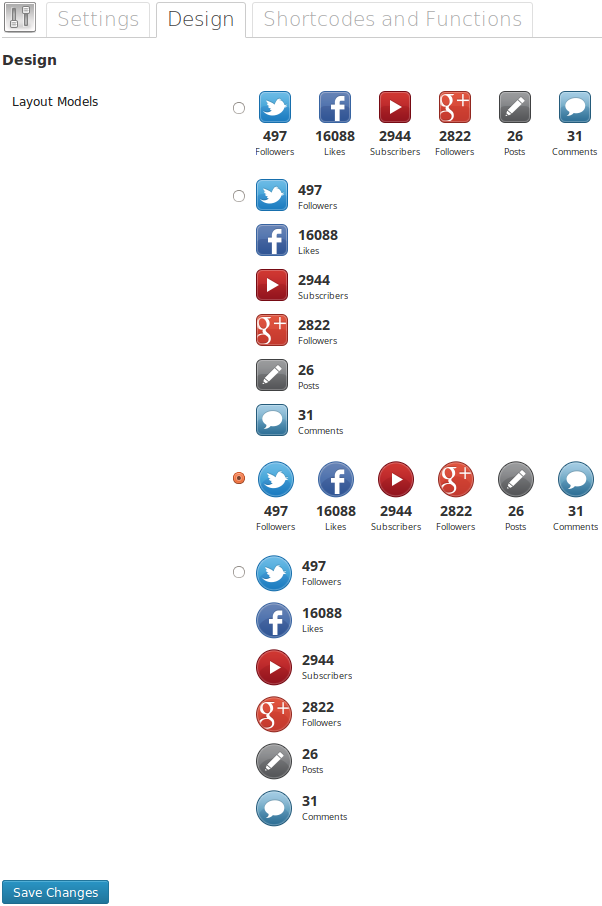
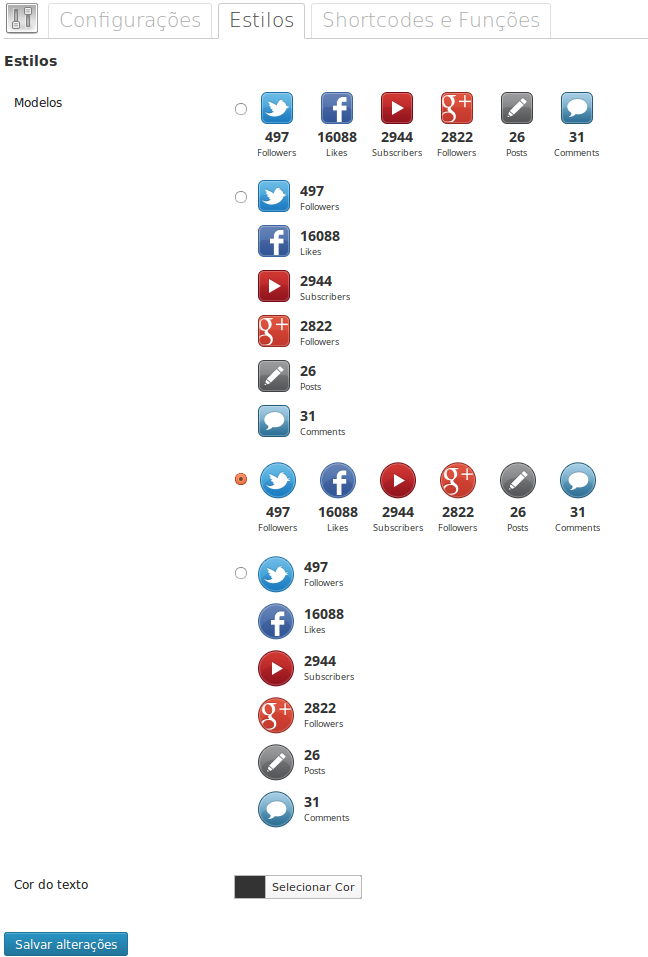
updated the plugin version to 2.5.0
git-svn-id: https://plugins.svn.wordpress.org/social-count-plus/trunk@729560 b8457f37-d9ea-0310-8a92-e5e31aec5664

diff --git a/assets/css/counter.css b/assets/css/counter.css
@@ -1,1 +1,1 @@
-.social-count-plus .clear{clear:both}.social-count-plus ul{list-style:none !important;margin:0;padding:0}.social-count-plus li{background:none;clear:none !important;float:left;margin:0;padding:0 0 20px;text-align:center;width:60px}.social-count-plus .vertical li{*zoom:1;display:block;float:none;padding-bottom:10px;width:100%}.social-count-plus .vertical li:after{content:"";display:table;clear:both}.social-count-plus span{display:block;padding:0;margin:0}.social-count-plus a{-webkit-transition:all 0.4s ease;-moz-transition:all 0.4s ease;-o-transition:all 0.4s ease;transition:all 0.4s ease;display:block;margin:0 auto;opacity:1}.social-count-plus a:hover{opacity:0.7}.social-count-plus .default a{background-color:transparent !important;background-image:url("../images/sprite-default.png") !important;background-repeat:no-repeat !important;height:32px !important;width:32px !important}.social-count-plus .circle a{background-image:url("../images/sprite-circle.png") !important;height:37px !important;width:36px !important}.social-count-plus .vertical a{float:left}.social-count-plus .vertical .items{float:left;margin-left:10px;text-align:left}.social-count-plus .count{color:#333;display:block;font-size:14px;font-weight:bold;line-height:16px;margin:5px 0 0;padding:0}.social-count-plus .vertical .count{margin-top:3px}.social-count-plus .label{color:#333;line-height:16px;font-size:9px;font-weight:normal;text-transform:capitalize}.social-count-plus .default .count-twitter a{background-position:0 0 !important}.social-count-plus .circle .count-twitter a{background-position:0 0 !important}.social-count-plus .default .count-facebook a{background-position:-32px 0 !important}.social-count-plus .circle .count-facebook a{background-position:-36px 0 !important}.social-count-plus .default .count-youtube a{background-position:-64px 0 !important}.social-count-plus .circle .count-youtube a{background-position:-72px 0 !important}.social-count-plus .default .count-googleplus a{background-position:-96px 0 !important}.social-count-plus .circle .count-googleplus a{background-position:-108px 0 !important}.social-count-plus .default .count-posts a{background-position:-128px 0 !important}.social-count-plus .circle .count-posts a{background-position:-144px 0 !important}.social-count-plus .default .count-comments a{background-position:-160px 0 !important}.social-count-plus .circle .count-comments a{background-position:-180px 0 !important}
+.social-count-plus .clear{clear:both}.social-count-plus ul{list-style:none !important;margin:0;padding:0}.social-count-plus li{background:none;clear:none !important;float:left;margin:0;padding:0 0 20px;text-align:center;width:60px}.social-count-plus .vertical li{*zoom:1;display:block;float:none;padding-bottom:10px;width:100%}.social-count-plus .vertical li:after{content:"";display:table;clear:both}.social-count-plus span{display:block;padding:0;margin:0}.social-count-plus a{-webkit-transition:all 0.4s ease;-moz-transition:all 0.4s ease;-o-transition:all 0.4s ease;transition:all 0.4s ease;display:block;margin:0 auto;opacity:1}.social-count-plus a:hover{opacity:0.7}.social-count-plus .default a{background-color:transparent !important;background-image:url("../images/sprite-default.png") !important;background-repeat:no-repeat !important;height:32px !important;width:32px !important}.social-count-plus .circle a{background-image:url("../images/sprite-circle.png") !important;height:37px !important;width:36px !important}.social-count-plus .vertical a{float:left}.social-count-plus .vertical .items{float:left;margin-left:10px;text-align:left}.social-count-plus .count{display:block;font-size:14px;font-weight:bold;line-height:16px;margin:5px 0 0;padding:0}.social-count-plus .vertical .count{margin-top:3px}.social-count-plus .label{line-height:16px;font-size:9px;font-weight:normal;text-transform:capitalize}.social-count-plus .default .count-twitter a{background-position:0 0 !important}.social-count-plus .circle .count-twitter a{background-position:0 0 !important}.social-count-plus .default .count-facebook a{background-position:-32px 0 !important}.social-count-plus .circle .count-facebook a{background-position:-36px 0 !important}.social-count-plus .default .count-youtube a{background-position:-64px 0 !important}.social-count-plus .circle .count-youtube a{background-position:-72px 0 !important}.social-count-plus .default .count-googleplus a{background-position:-96px 0 !important}.social-count-plus .circle .count-googleplus a{background-position:-108px 0 !important}.social-count-plus .default .count-posts a{background-position:-128px 0 !important}.social-count-plus .circle .count-posts a{background-position:-144px 0 !important}.social-count-plus .default .count-comments a{background-position:-160px 0 !important}.social-count-plus .circle .count-comments a{background-position:-180px 0 !important}

diff --git a/assets/js/admin.js b/assets/js/admin.js
@@ -1,0 +1,4 @@
+jQuery(document).ready(function($) {
+    // Init the color picker.
+    $(".social-count-plus-color-field").wpColorPicker();
+});

diff --git a/assets/js/admin.min.js b/assets/js/admin.min.js
@@ -1,0 +1,1 @@
+jQuery(document).ready(function(o){o(".social-count-plus-color-field").wpColorPicker()});

diff --git a/social-count-plus.php b/social-count-plus.php
@@ -5,7 +5,7 @@
  * Description: Display the counting Twitter followers, Facebook fans, YouTube subscribers posts and comments.
  * Author: claudiosanches
  * Author URI: http://claudiosmweb.com/
- * Version: 2.4.0
+ * Version: 2.5.0
  * License: GPLv2 or later
  * Text Domain: socialcountplus
  * Domain Path: /languages/
@@ -31,6 +31,7 @@ class Social_Count_Plus {
         // Load textdomain.
         add_action( 'plugins_loaded', array( &$this, 'languages' ), 0 );
 
+
         // Adds admin menu.
         add_action( 'admin_menu', array( &$this, 'menu' ) );
 
@@ -42,12 +43,16 @@ class Social_Count_Plus {
 
         // Scripts.
         add_action( 'wp_enqueue_scripts', array( &$this, 'scripts' ) );
+        add_action( 'admin_enqueue_scripts', array( &$this, 'admin_scripts' ) );
 
         // Adds shortcode.
         add_shortcode( 'scp', array( &$this, 'shortcode' ) );
 
         // Install default settings.
         register_activation_hook( __FILE__, array( &$this, 'install' ) );
+
+        // Actions links.
+        add_filter( 'plugin_action_links_' . plugin_basename( __FILE__ ), array( &$this, 'action_links' ) );
     }
 
     /**
@@ -58,11 +63,42 @@ class Social_Count_Plus {
     }
 
     /**
+     * Adds custom settings url in plugins page.
+     *
+     * @param  array $links Default links.
+     *
+     * @return array        Default links and settings link.
+     */
+    public function action_links( $links ) {
+
+        $settings = array(
+            'settings' => sprintf(
+                '<a href="%s">%s</a>',
+                admin_url( 'options-general.php?page=socialcountplus' ),
+                __( 'Settings', 'socialcountplus' )
+            )
+        );
+
+        return array_merge( $settings, $links );
+    }
+
+    /**
      * Register scripts.
      */
     public function scripts() {
         wp_register_style( 'socialcountplus-style', plugins_url( 'assets/css/counter.css', __FILE__ ), array(), '2.0', 'all' );
         wp_enqueue_style( 'socialcountplus-style' );
+    }
+
+    /**
+     * Register admin scripts.
+     */
+    public function admin_scripts() {
+        wp_enqueue_script( 'wp-color-picker' );
+        wp_enqueue_style( 'wp-color-picker' );
+
+        wp_register_script( 'socialcountplus-admin', plugins_url( 'assets/js/admin.js', __FILE__ ), array( 'jquery', 'wp-color-picker' ), null, true );
+        wp_enqueue_script( 'socialcountplus-admin' );
     }
 
     /**
@@ -228,6 +264,13 @@ class Social_Count_Plus {
                 ),
                 'section' => 'design',
                 'menu' => 'socialcountplus_design'
+            ),
+            'text_color' => array(
+                'title' => __( 'Text Color', 'socialcountplus' ),
+                'default' => '#333333',
+                'type' => 'color',
+                'section' => 'design',
+                'menu' => 'socialcountplus_design'
             )
         );
 
@@ -345,17 +388,15 @@ class Social_Count_Plus {
 
         // Create tabs current class.
         $current_tab = '';
-        if ( isset( $_GET['tab'] ) ) {
+        if ( isset( $_GET['tab'] ) )
             $current_tab = $_GET['tab'];
-        } else {
+        else
             $current_tab = 'settings';
-        }
 
         // Reset transients when save settings page.
         if ( isset( $_GET['settings-updated'] ) ) {
-            if ( true == $_GET['settings-updated'] ) {
+            if ( true == $_GET['settings-updated'] )
                 $this->counter->reset_transients();
-            }
         }
 
         ?>
@@ -392,14 +433,12 @@ class Social_Count_Plus {
                     if ( 'design' == $current_tab ) {
                         settings_fields( 'socialcountplus_design' );
                         do_settings_sections( 'socialcountplus_design' );
+                        submit_button();
                     } else if ( 'shortcodes' == $current_tab ) {
                         $this->page_shortcodes();
                     } else {
                         settings_fields( 'socialcountplus_settings' );
                         do_settings_sections( 'socialcountplus_settings' );
-                    }
-
-                    if ( 'shortcodes' != $current_tab ) {
                         submit_button();
                     }
                 ?>
@@ -485,9 +524,8 @@ class Social_Count_Plus {
         $settings = 'socialcountplus_settings';
 
         // Create option in wp_options.
-        if ( false == get_option( $settings ) ) {
+        if ( false == get_option( $settings ) )
             $this->update();
-        }
 
         foreach ( $this->default_settings() as $key => $value ) {
 
@@ -544,6 +582,20 @@ class Social_Count_Plus {
                         )
                     );
                     break;
+                case 'color':
+                    add_settings_field(
+                        $key,
+                        $value['title'],
+                        array( &$this , 'color_element_callback' ),
+                        $value['menu'],
+                        $value['section'],
+                        array(
+                            'menu' => $value['menu'],
+                            'id' => $key,
+                            'description' => isset( $value['description'] ) ? $value['description'] : ''
+                        )
+                    );
+                    break;
 
                 default:
                     break;
@@ -570,18 +622,16 @@ class Social_Count_Plus {
 
         $options = get_option( $menu );
 
-        if ( isset( $options[$id] ) ) {
+        if ( isset( $options[$id] ) )
             $current = $options[$id];
-        } else {
+        else
             $current = isset( $args['default'] ) ? $args['default'] : '';
-        }
 
         $html = sprintf( '<input type="text" id="%1$s" name="%2$s[%1$s]" value="%3$s" class="%4$s" />', $id, $menu, $current, $class );
 
         // Displays option description.
-        if ( isset( $args['description'] ) ) {
+        if ( isset( $args['description'] ) )
             $html .= sprintf( '<p class="description">%s</p>', $args['description'] );
-        }
 
         echo $html;
     }
@@ -599,20 +649,18 @@ class Social_Count_Plus {
 
         $options = get_option( $menu );
 
-        if ( isset( $options[$id] ) ) {
+        if ( isset( $options[$id] ) )
             $current = $options[$id];
-        } else {
+        else
             $current = isset( $args['default'] ) ? $args['default'] : '';
-        }
 
         $html = sprintf( '<input type="checkbox" id="%1$s" name="%2$s[%1$s]" value="1"%3$s />', $id, $menu, checked( 1, $current, false ) );
 
         $html .= sprintf( '<label for="%s"> %s</label><br />', $id, __( 'Activate/Deactivate', 'socialcountplus' ) );
 
         // Displays option description.
-        if ( isset( $args['description'] ) ) {
+        if ( isset( $args['description'] ) )
             $html .= sprintf( '<p class="description">%s</p>', $args['description'] );
-        }
 
         echo $html;
     }
@@ -630,11 +678,10 @@ class Social_Count_Plus {
 
         $options = get_option( $menu );
 
-        if ( isset( $options[$id] ) ) {
+        if ( isset( $options[$id] ) )
             $current = $options[$id];
-        } else {
+        else
             $current = isset( $args['default'] ) ? $args['default'] : '#ffffff';
-        }
 
         $html = '';
         $key = 0;
@@ -646,9 +693,35 @@ class Social_Count_Plus {
         }
 
         // Displays option description.
-        if ( isset( $args['description'] ) ) {
+        if ( isset( $args['description'] ) )
             $html .= sprintf( '<p class="description">%s</p>', $args['description'] );
-        }
+
+        echo $html;
+    }
+
+    /**
+     * Color element fallback.
+     *
+     * @param  array $args Field arguments.
+     *
+     * @return string      Color field.
+     */
+    public function color_element_callback( $args ) {
+        $menu = $args['menu'];
+        $id = $args['id'];
+
+        $options = get_option( $menu );
+
+        if ( isset( $options[$id] ) )
+            $current = $options[$id];
+        else
+            $current = isset( $args['default'] ) ? $args['default'] : '#333333';
+
+        $html = sprintf( '<input type="text" id="%1$s" name="%2$s[%1$s]" value="%3$s" class="social-count-plus-color-field" />', $id, $menu, $current );
+
+        // Displays option description.
+        if ( isset( $args['description'] ) )
+            $html .= sprintf( '<p class="description">%s</p>', $args['description'] );
 
         echo $html;
     }
@@ -668,10 +741,10 @@ class Social_Count_Plus {
         foreach ( $input as $key => $value ) {
 
             // Check to see if the current option has a value. If so, process it.
-            if ( isset( $input[$key] ) ) {
+            if ( isset( $input[ $key ] ) ) {
 
                 // Strip all HTML and PHP tags and properly handle quoted strings.
-                $output[$key] = sanitize_text_field( $input[$key] );
+                $output[ $key ] = sanitize_text_field( $input[ $key ] );
             }
         }
 
@@ -689,12 +762,12 @@ class Social_Count_Plus {
      *
      * @return string         HTML li element.
      */
-    public function get_view_li( $slug, $url, $count, $title ) {
+    public function get_view_li( $slug, $url, $count, $title, $color ) {
         $html = sprintf( '<li class="count-%s">', $slug );
             $html .= sprintf( '<a class="icon" href="%s" target="_blank"></a>', esc_url( $url ) );
             $html .= '<span class="items">';
-                $html .= sprintf( '<span class="count">%s</span>', apply_filters( 'social_count_plus_number_format', $count ) );
-                $html .= sprintf( '<span class="label">%s</span>', $title );
+                $html .= sprintf( '<span class="count" style="color: %s !important;">%s</span>', $color, apply_filters( 'social_count_plus_number_format', $count ) );
+                $html .= sprintf( '<span class="label" style="color: %s !important;">%s</span>', $color, $title );
             $html .= '</span>';
         $html .= '</li>';
 
@@ -710,6 +783,7 @@ class Social_Count_Plus {
         $settings = get_option( 'socialcountplus_settings' );
         $design = get_option( 'socialcountplus_design' );
         $count = $this->counter->update_transients();
+        $color = isset( $design['text_color'] ) ? $design['text_color'] : '#333333';
 
         // Sets widget design.
         $style = '';
@@ -733,22 +807,22 @@ class Social_Count_Plus {
             $html .= '<ul class="' . $style . '">';
 
                 // Twitter counter.
-                $html .= ( isset( $settings['twitter_active'] ) ) ? $this->get_view_li( 'twitter', 'http://twitter.com/' . $settings['twitter_user'], $count['twitter'], __( 'followers', 'socialcountplus' ) ) : '';
+                $html .= ( isset( $settings['twitter_active'] ) ) ? $this->get_view_li( 'twitter', 'http://twitter.com/' . $settings['twitter_user'], $count['twitter'], __( 'followers', 'socialcountplus' ), $color ) : '';
 
                 // Facebook counter.
-                $html .= ( isset( $settings['facebook_active'] ) ) ? $this->get_view_li( 'facebook', 'http://www.facebook.com/' . $settings['facebook_id'], $count['facebook'], __( 'likes', 'socialcountplus' ) ) : '';
+                $html .= ( isset( $settings['facebook_active'] ) ) ? $this->get_view_li( 'facebook', 'http://www.facebook.com/' . $settings['facebook_id'], $count['facebook'], __( 'likes', 'socialcountplus' ), $color ) : '';
 
                 // YouTube counter.
-                $html .= ( isset( $settings['youtube_active'] ) ) ? $this->get_view_li( 'youtube', 'www.youtube.com/user/' . $settings['youtube_user'], $count['youtube'], __( 'subscribers', 'socialcountplus' ) ) : '';
+                $html .= ( isset( $settings['youtube_active'] ) ) ? $this->get_view_li( 'youtube', 'www.youtube.com/user/' . $settings['youtube_user'], $count['youtube'], __( 'subscribers', 'socialcountplus' ), $color ) : '';
 
                 // Google Plus counter.
-                $html .= ( isset( $settings['googleplus_active'] ) ) ? $this->get_view_li( 'googleplus', 'https://plus.google.com/' . $settings['googleplus_id'], $count['googleplus'], __( 'followers', 'socialcountplus' ) ) : '';
+                $html .= ( isset( $settings['googleplus_active'] ) ) ? $this->get_view_li( 'googleplus', 'https://plus.google.com/' . $settings['googleplus_id'], $count['googleplus'], __( 'followers', 'socialcountplus' ), $color ) : '';
 
                 // Posts counter.
-                $html .= ( isset( $settings['posts_active'] ) ) ? $this->get_view_li( 'posts', get_home_url(), $count['posts'], __( 'posts', 'socialcountplus' ) ) : '';
+                $html .= ( isset( $settings['posts_active'] ) ) ? $this->get_view_li( 'posts', get_home_url(), $count['posts'], __( 'posts', 'socialcountplus' ), $color ) : '';
 
                 // Comments counter.
-                $html .= ( isset( $settings['comments_active'] ) ) ? $this->get_view_li( 'comments', get_home_url(), $count['comments'], __( 'comments', 'socialcountplus' ) ) : '';
+                $html .= ( isset( $settings['comments_active'] ) ) ? $this->get_view_li( 'comments', get_home_url(), $count['comments'], __( 'comments', 'socialcountplus' ), $color ) : '';
 
             $html .= '</ul>';
             $html .= '<div class="clear"></div>';

diff --git a/classes/class-twitter-oauth-authorization.php b/classes/class-twitter-oauth-authorization.php
@@ -51,9 +51,8 @@ class Social_Count_Plus_Twitter_Oauth_Authorization {
         $return = array();
         ksort( $params );
 
-        foreach( $params as $key => $value ) {
+        foreach( $params as $key => $value )
             $return[] = $key . '=' . $value;
-        }
 
         return $method . "&" . rawurlencode( $url ) . '&' . rawurlencode( implode( '&', $return ) ) . '%26' . rawurlencode( $query );
     }
@@ -90,9 +89,8 @@ class Social_Count_Plus_Twitter_Oauth_Authorization {
         $return = 'OAuth ';
         $values = array();
 
-        foreach( $this->signature() as $key => $value ) {
+        foreach( $this->signature() as $key => $value )
             $values[] = $key . '="' . rawurlencode( $value ) . '"';
-        }
 
         $return .= implode( ', ', $values );
 

diff --git a/classes/class-widget.php b/classes/class-widget.php
@@ -48,9 +48,8 @@ class SocialCountPlus extends WP_Widget {
 
         $title = empty( $instance['title'] ) ? ' ' : apply_filters( 'widget_title', $instance['title'] );
 
-        if ( ! empty( $title ) ) {
+        if ( ! empty( $title ) )
             echo $before_title . $title . $after_title;
-        }
 
         // Display widget
         echo $this->plugin_view;

diff --git a/classes/class-counter.php b/classes/class-counter.php
@@ -32,9 +32,8 @@ class Social_Count_Plus_Counter {
         $count = get_transient( 'socialcountplus_counter' );
 
         // Test transient if exist.
-        if ( false != $count ) {
+        if ( false != $count )
             return $count;
-        }
 
         // Get options.
         $settings = get_option( 'socialcountplus_settings' );
